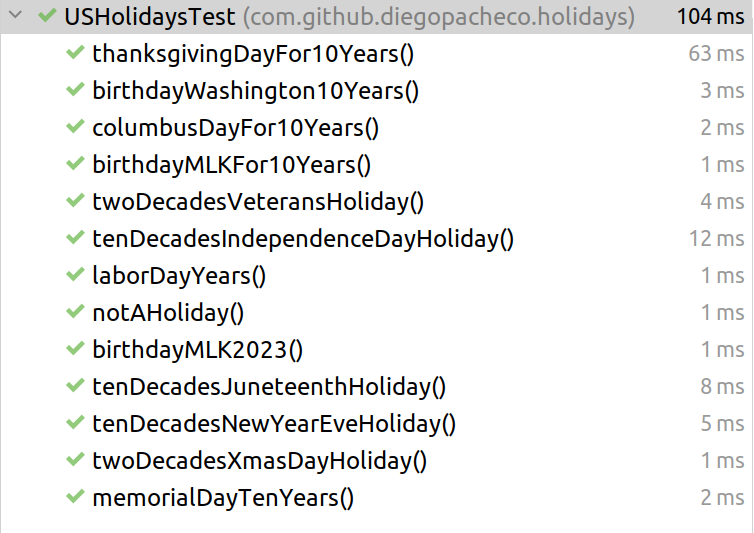
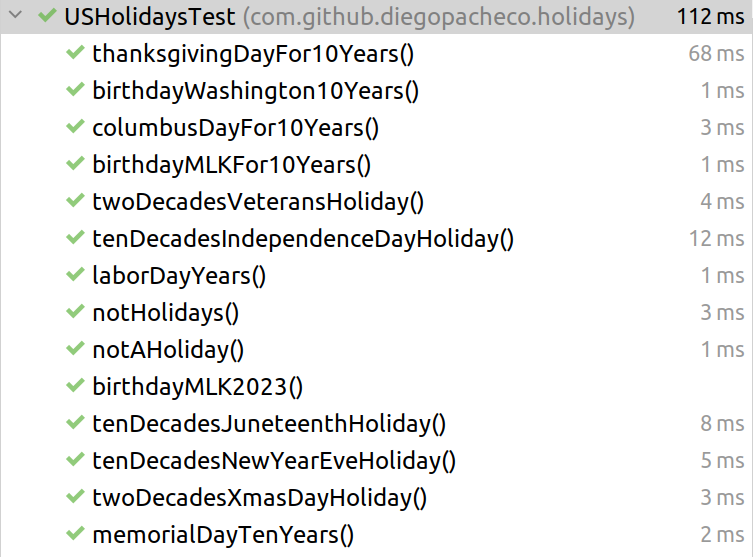
more tests

Changed region(s): [[0.0915, 0.0, 0.8541, 0.9906], [0.8846, 0.0, 1.0, 1.0]]

diff --git a/pocs/us-holidats-simple/src/test/java/com/github/diegopacheco/holidays/USHolidaysTest.java b/pocs/us-holidats-simple/src/test/java/com/github/diegopacheco/holidays/USHolidaysTest.java
@@ -10,39 +10,60 @@ import static org.junit.jupiter.api.Assertions.assertTrue;
 public class USHolidaysTest {
 
     @Test
-    public void notAHoliday(){
+    public void notAHoliday() {
         Date notHoliday = new GregorianCalendar(2023, Calendar.JANUARY, 2).getTime();
-        boolean result = USHolidays.isHoliday(notHoliday);
+        boolean result = new USHolidays().isHoliday(notHoliday);
         assertFalse(result);
     }
 
     @Test
-    public void tenDecadesNewYearEveHoliday(){
-        for (int i=1;i<=100;i++){
-            Date holiday = new GregorianCalendar(2019+i, Calendar.JANUARY, 1).getTime();
-            boolean result = USHolidays.isHoliday(holiday);
+    public void notHolidays() {
+        List<Date> notHolidays = new ArrayList<>();
+        notHolidays.add(new GregorianCalendar(2024, Calendar.JANUARY, 10).getTime());
+        notHolidays.add(new GregorianCalendar(2025, Calendar.FEBRUARY, 4).getTime());
+        notHolidays.add(new GregorianCalendar(2026, Calendar.MARCH, 1).getTime());
+        notHolidays.add(new GregorianCalendar(2027, Calendar.MAY, 1).getTime());
+        notHolidays.add(new GregorianCalendar(2028, Calendar.JUNE, 1).getTime());
+        notHolidays.add(new GregorianCalendar(2029, Calendar.JULY, 1).getTime());
+        notHolidays.add(new GregorianCalendar(2030, Calendar.AUGUST, 20).getTime());
+        notHolidays.add(new GregorianCalendar(2031, Calendar.SEPTEMBER, 7).getTime());
+        notHolidays.add(new GregorianCalendar(2032, Calendar.OCTOBER, 1).getTime());
+        notHolidays.add(new GregorianCalendar(2033, Calendar.NOVEMBER, 1).getTime());
+        notHolidays.add(new GregorianCalendar(2034, Calendar.DECEMBER, 1).getTime());
+
+        for (Date d : notHolidays) {
+            boolean result = new USHolidays().isHoliday(d);
+            assertFalse(result);
+        }
+    }
+
+    @Test
+    public void tenDecadesNewYearEveHoliday() {
+        for (int i = 1; i <= 100; i++) {
+            Date holiday = new GregorianCalendar(2019 + i, Calendar.JANUARY, 1).getTime();
+            boolean result = new USHolidays().isHoliday(holiday);
             assertTrue(result);
         }
     }
 
     @Test
-    public void tenDecadesIndependenceDayHoliday(){
-        for (int i=1;i<=100;i++){
-            Date holiday = new GregorianCalendar(2019+i, Calendar.JULY, 4).getTime();
-            boolean result = USHolidays.isHoliday(holiday);
+    public void tenDecadesIndependenceDayHoliday() {
+        for (int i = 1; i <= 100; i++) {
+            Date holiday = new GregorianCalendar(2019 + i, Calendar.JULY, 4).getTime();
+            boolean result = new USHolidays().isHoliday(holiday);
             assertTrue(result);
         }
     }
 
     @Test
-    public void birthdayMLK2023(){
+    public void birthdayMLK2023() {
         Date notHoliday = new GregorianCalendar(2023, Calendar.JANUARY, 16).getTime();
-        boolean result = USHolidays.isHoliday(notHoliday);
+        boolean result = new USHolidays().isHoliday(notHoliday);
         assertTrue(result);
     }
 
     @Test
-    public void birthdayMLKFor10Years(){
+    public void birthdayMLKFor10Years() {
         List<Date> birthdayMLKHolidays = new ArrayList<>();
         birthdayMLKHolidays.add(new GregorianCalendar(2024, Calendar.JANUARY, 15).getTime());
         birthdayMLKHolidays.add(new GregorianCalendar(2025, Calendar.JANUARY, 20).getTime());
@@ -55,14 +76,14 @@ public class USHolidaysTest {
         birthdayMLKHolidays.add(new GregorianCalendar(2032, Calendar.JANUARY, 19).getTime());
         birthdayMLKHolidays.add(new GregorianCalendar(2033, Calendar.JANUARY, 17).getTime());
 
-        for(Date d: birthdayMLKHolidays){
-            boolean result = USHolidays.isHoliday(d);
+        for (Date d : birthdayMLKHolidays) {
+            boolean result = new USHolidays().isHoliday(d);
             assertTrue(result);
         }
     }
 
     @Test
-    public void birthdayWashington10Years(){
+    public void birthdayWashington10Years() {
         List<Date> birthdayWashingtonHolidays = new ArrayList<>();
         birthdayWashingtonHolidays.add(new GregorianCalendar(2019, Calendar.FEBRUARY, 18).getTime());
         birthdayWashingtonHolidays.add(new GregorianCalendar(2020, Calendar.FEBRUARY, 17).getTime());
@@ -76,14 +97,14 @@ public class USHolidaysTest {
         birthdayWashingtonHolidays.add(new GregorianCalendar(2028, Calendar.FEBRUARY, 21).getTime());
         birthdayWashingtonHolidays.add(new GregorianCalendar(2029, Calendar.FEBRUARY, 19).getTime());
 
-        for(Date d: birthdayWashingtonHolidays){
-            boolean result = USHolidays.isHoliday(d);
+        for (Date d : birthdayWashingtonHolidays) {
+            boolean result = new USHolidays().isHoliday(d);
             assertTrue(result);
         }
     }
 
     @Test
-    public void memorialDayTenYears(){
+    public void memorialDayTenYears() {
         List<Date> memorialDayHolidays = new ArrayList<>();
         memorialDayHolidays.add(new GregorianCalendar(2017, Calendar.MAY, 29).getTime());
         memorialDayHolidays.add(new GregorianCalendar(2018, Calendar.MAY, 28).getTime());
@@ -99,14 +120,14 @@ public class USHolidaysTest {
         memorialDayHolidays.add(new GregorianCalendar(2028, Calendar.MAY, 29).getTime());
         memorialDayHolidays.add(new GregorianCalendar(2029, Calendar.MAY, 28).getTime());
 
-        for(Date d: memorialDayHolidays){
-            boolean result = USHolidays.isHoliday(d);
+        for (Date d : memorialDayHolidays) {
+            boolean result = new USHolidays().isHoliday(d);
             assertTrue(result);
         }
     }
 
     @Test
-    public void laborDayYears(){
+    public void laborDayYears() {
         List<Date> laborDayHolidays = new ArrayList<>();
         laborDayHolidays.add(new GregorianCalendar(2024, Calendar.SEPTEMBER, 2).getTime());
         laborDayHolidays.add(new GregorianCalendar(2025, Calendar.SEPTEMBER, 1).getTime());
@@ -119,14 +140,14 @@ public class USHolidaysTest {
         laborDayHolidays.add(new GregorianCalendar(2032, Calendar.SEPTEMBER, 6).getTime());
         laborDayHolidays.add(new GregorianCalendar(2033, Calendar.SEPTEMBER, 5).getTime());
 
-        for(Date d: laborDayHolidays){
-            boolean result = USHolidays.isHoliday(d);
+        for (Date d : laborDayHolidays) {
+            boolean result = new USHolidays().isHoliday(d);
             assertTrue(result);
         }
     }
 
     @Test
-    public void columbusDayFor10Years(){
+    public void columbusDayFor10Years() {
         List<Date> columbusHolidays = new ArrayList<>();
         columbusHolidays.add(new GregorianCalendar(2018, Calendar.OCTOBER, 8).getTime());
         columbusHolidays.add(new GregorianCalendar(2019, Calendar.OCTOBER, 14).getTime());
@@ -140,14 +161,14 @@ public class USHolidaysTest {
         columbusHolidays.add(new GregorianCalendar(2027, Calendar.OCTOBER, 11).getTime());
         columbusHolidays.add(new GregorianCalendar(2028, Calendar.OCTOBER, 9).getTime());
 
-        for(Date d: columbusHolidays){
-            boolean result = USHolidays.isHoliday(d);
+        for (Date d : columbusHolidays) {
+            boolean result = new USHolidays().isHoliday(d);
             assertTrue(result);
         }
     }
 
     @Test
-    public void thanksgivingDayFor10Years(){
+    public void thanksgivingDayFor10Years() {
         List<Date> thanksgivingHolidays = new ArrayList<>();
         thanksgivingHolidays.add(new GregorianCalendar(2018, Calendar.NOVEMBER, 22).getTime());
         thanksgivingHolidays.add(new GregorianCalendar(2019, Calendar.NOVEMBER, 28).getTime());
@@ -161,35 +182,35 @@ public class USHolidaysTest {
         thanksgivingHolidays.add(new GregorianCalendar(2027, Calendar.NOVEMBER, 25).getTime());
         thanksgivingHolidays.add(new GregorianCalendar(2028, Calendar.NOVEMBER, 23).getTime());
 
-        for(Date d: thanksgivingHolidays){
-            boolean result = USHolidays.isHoliday(d);
+        for (Date d : thanksgivingHolidays) {
+            boolean result = new USHolidays().isHoliday(d);
             assertTrue(result);
         }
     }
 
     @Test
-    public void tenDecadesJuneteenthHoliday(){
-        for (int i=1;i<=100;i++){
-            Date holiday = new GregorianCalendar(2019+i, Calendar.JUNE, 19).getTime();
-            boolean result = USHolidays.isHoliday(holiday);
+    public void tenDecadesJuneteenthHoliday() {
+        for (int i = 1; i <= 100; i++) {
+            Date holiday = new GregorianCalendar(2019 + i, Calendar.JUNE, 19).getTime();
+            boolean result = new USHolidays().isHoliday(holiday);
             assertTrue(result);
         }
     }
 
     @Test
-    public void twoDecadesVeteransHoliday(){
-        for (int i=1;i<=20;i++){
-            Date holiday = new GregorianCalendar(2019+i, Calendar.NOVEMBER, 11).getTime();
-            boolean result = USHolidays.isHoliday(holiday);
+    public void twoDecadesVeteransHoliday() {
+        for (int i = 1; i <= 20; i++) {
+            Date holiday = new GregorianCalendar(2019 + i, Calendar.NOVEMBER, 11).getTime();
+            boolean result = new USHolidays().isHoliday(holiday);
             assertTrue(result);
         }
     }
 
     @Test
-    public void twoDecadesXmasDayHoliday(){
-        for (int i=1;i<=20;i++){
-            Date holiday = new GregorianCalendar(2019+i, Calendar.DECEMBER, 25).getTime();
-            boolean result = USHolidays.isHoliday(holiday);
+    public void twoDecadesXmasDayHoliday() {
+        for (int i = 1; i <= 20; i++) {
+            Date holiday = new GregorianCalendar(2019 + i, Calendar.DECEMBER, 25).getTime();
+            boolean result = new USHolidays().isHoliday(holiday);
             assertTrue(result);
         }
     }

diff --git a/pocs/us-holidats-simple/src/main/java/com/github/diegopacheco/holidays/DateUtils.java b/pocs/us-holidats-simple/src/main/java/com/github/diegopacheco/holidays/DateUtils.java
@@ -1,35 +1,13 @@
 package com.github.diegopacheco.holidays;
 
-import java.time.DayOfWeek;
 import java.time.Instant;
 import java.time.LocalDate;
 import java.time.ZoneId;
-import java.time.temporal.TemporalAdjusters;
 import java.util.Date;
 
 public class DateUtils {
 
     private static final ZoneId zoneId = ZoneId.of("America/Los_Angeles");
-
-    public static LocalDate nthWeek(Date date, int month,DayOfWeek dayOfWeek){
-        Instant instant = date.toInstant();
-        LocalDate currentDate = LocalDate.ofInstant(instant,zoneId);
-        LocalDate nth = currentDate.with(TemporalAdjusters.dayOfWeekInMonth(month, dayOfWeek));
-        return nth;
-    }
-
-    public static LocalDate secondMondayOfMonth(Date date){
-        LocalDate localDate = date.toInstant().atZone(zoneId).toLocalDate();
-        LocalDate lastMonday = localDate.with(TemporalAdjusters.firstInMonth(DayOfWeek.MONDAY));
-        return lastMonday;
-    }
-
-    public static LocalDate lastThursdayOfMonth(Date date){
-        LocalDate localDate = date.toInstant().atZone(zoneId).toLocalDate();
-        LocalDate lastMonday = localDate.with(TemporalAdjusters.lastInMonth(DayOfWeek.THURSDAY));
-        return lastMonday;
-    }
-
 
     public static LocalDate fromDate(Date date){
         Instant instant = date.toInstant();

diff --git a/pocs/us-holidats-simple/src/main/java/com/github/diegopacheco/holidays/USHolidays.java b/pocs/us-holidats-simple/src/main/java/com/github/diegopacheco/holidays/USHolidays.java
@@ -6,7 +6,7 @@ import java.util.ArrayList;
 import java.util.Date;
 import java.util.List;
 
-public class USHolidays {
+public class USHolidays implements Holiday{
 
     private static final List<Holiday> holidays = new ArrayList<>();
 
@@ -24,7 +24,7 @@ public class USHolidays {
         holidays.add(new Xmas());
     }
 
-    public static boolean isHoliday(Date date){
+    public boolean isHoliday(Date date){
         if (null==date){
             return false;
         }

diff --git a/pocs/us-holidats-simple/README.md b/pocs/us-holidats-simple/README.md
@@ -41,3 +41,7 @@ you need to test well and them the library will be fine.
 Pay attention there is not hardcoded holidays, everything is done via math, which is provided by US federal law.
 
 Doing what is right is always more diffult, takes more time, and require thinking, not always is obvious, lots of times will look like a Service make sense but actually the library will make more sense, othertimes a library will make more sense but actually you sohuld build a service, so think about the tradeoffs and challedge the assumptions.
+
+## Design
+
+****Basically we are using polymorphism at is best. There is a Holiday interface and them all the classes on the checkers package implement Holiday. USHolidays is just just one aggregator, which you might know by the pattern name Facade and a form of Composite because it also implements Holiday.
